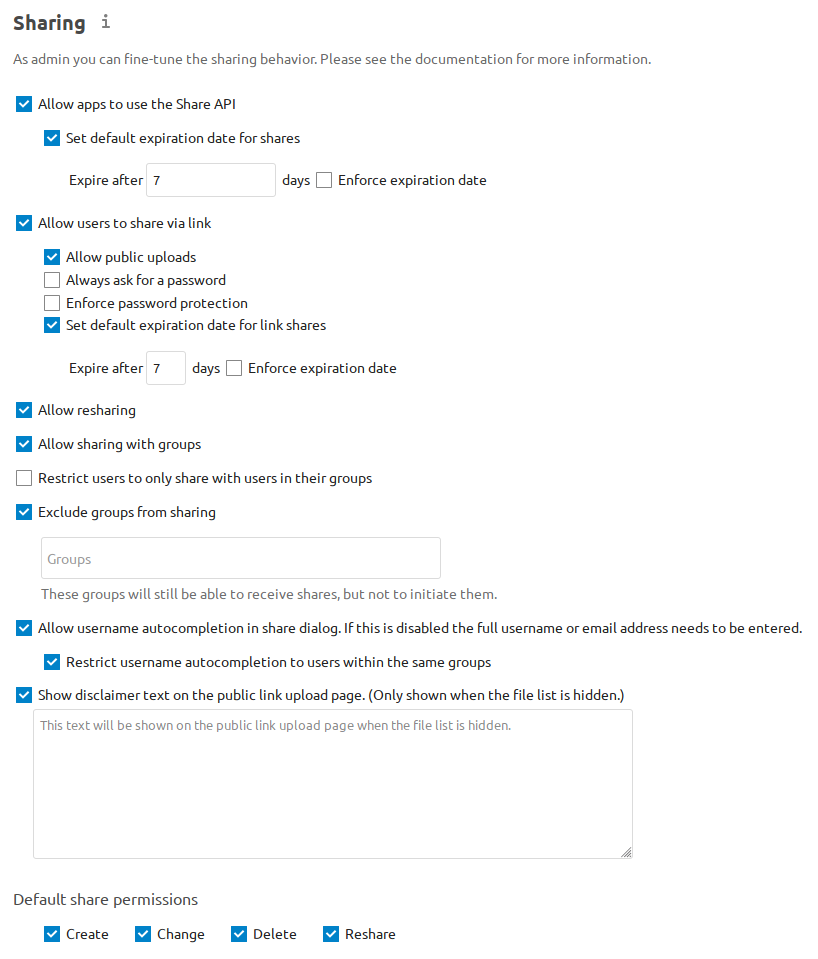
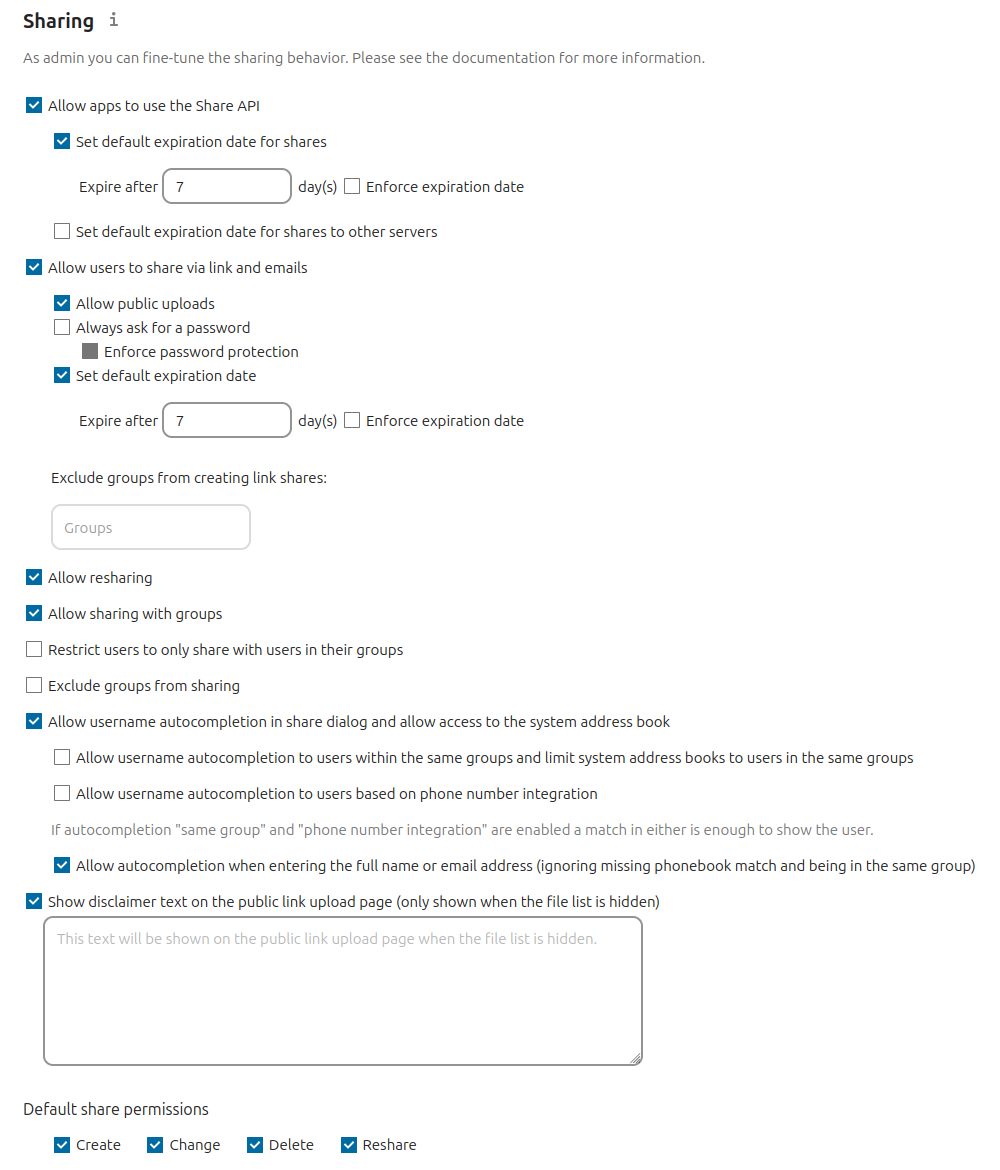
Update sharing settings

Changed region(s): [[0.0, 0.0, 0.978, 0.9979], [0.6112, 0.877, 0.6418, 0.9072]]

diff --git a/admin_manual/configuration_files/file_sharing_configuration.rst b/admin_manual/configuration_files/file_sharing_configuration.rst
@@ -60,10 +60,14 @@ Configure your sharing policy on your Admin page in the Sharing section.
   from creating any file shares in those groups. When you check this, you'll
   get a dropdown list of all your groups to choose from. Members of excluded
   groups can still receive shares, but not create any.
-* Check ``Allow username autocompletion in share dialog`` to enable
-  auto-completion of Nextcloud usernames.
-* Check ``Restrict username autocompletion to users within the same groups`` to limit
-  username autocompletion to users from within the same groups as the share owner.
+* Check ``Allow username autocompletion in share dialog and allow access to the system address book`` to enable
+  auto-completion of Nextcloud usernames and list the system address book as resource when syncing contacts with CardDAV.
+* Check ``Allow username autocompletion to users within the same groups and limit system address books to users in the same groups`` to limit
+  username autocompletion to users from within the same groups as the share owner. Also t* Check ``Allow username autocompletion to users within the same groups and limit system address books to users in the same groups`` to limit
+* Check ``Allow username autocompletion to users based on phone number integration`` to limit
+  username autocompletion to users when the share owner has synced their phone address book via the Nextcloud Talk mobile clients and it contained the phone number the user configured in their profile.
+* Check ``Allow autocompletion when entering the full name or email address (ignoring missing phonebook match and being in the same group)``
+  to show despite of the previous restrictions a user suggestion, when the complete display name or user id was typed.
 * Check ``Show disclaimer text on the public link upload page`` to set and show
   a disclaimer text on public links with hidden file lists.
 
